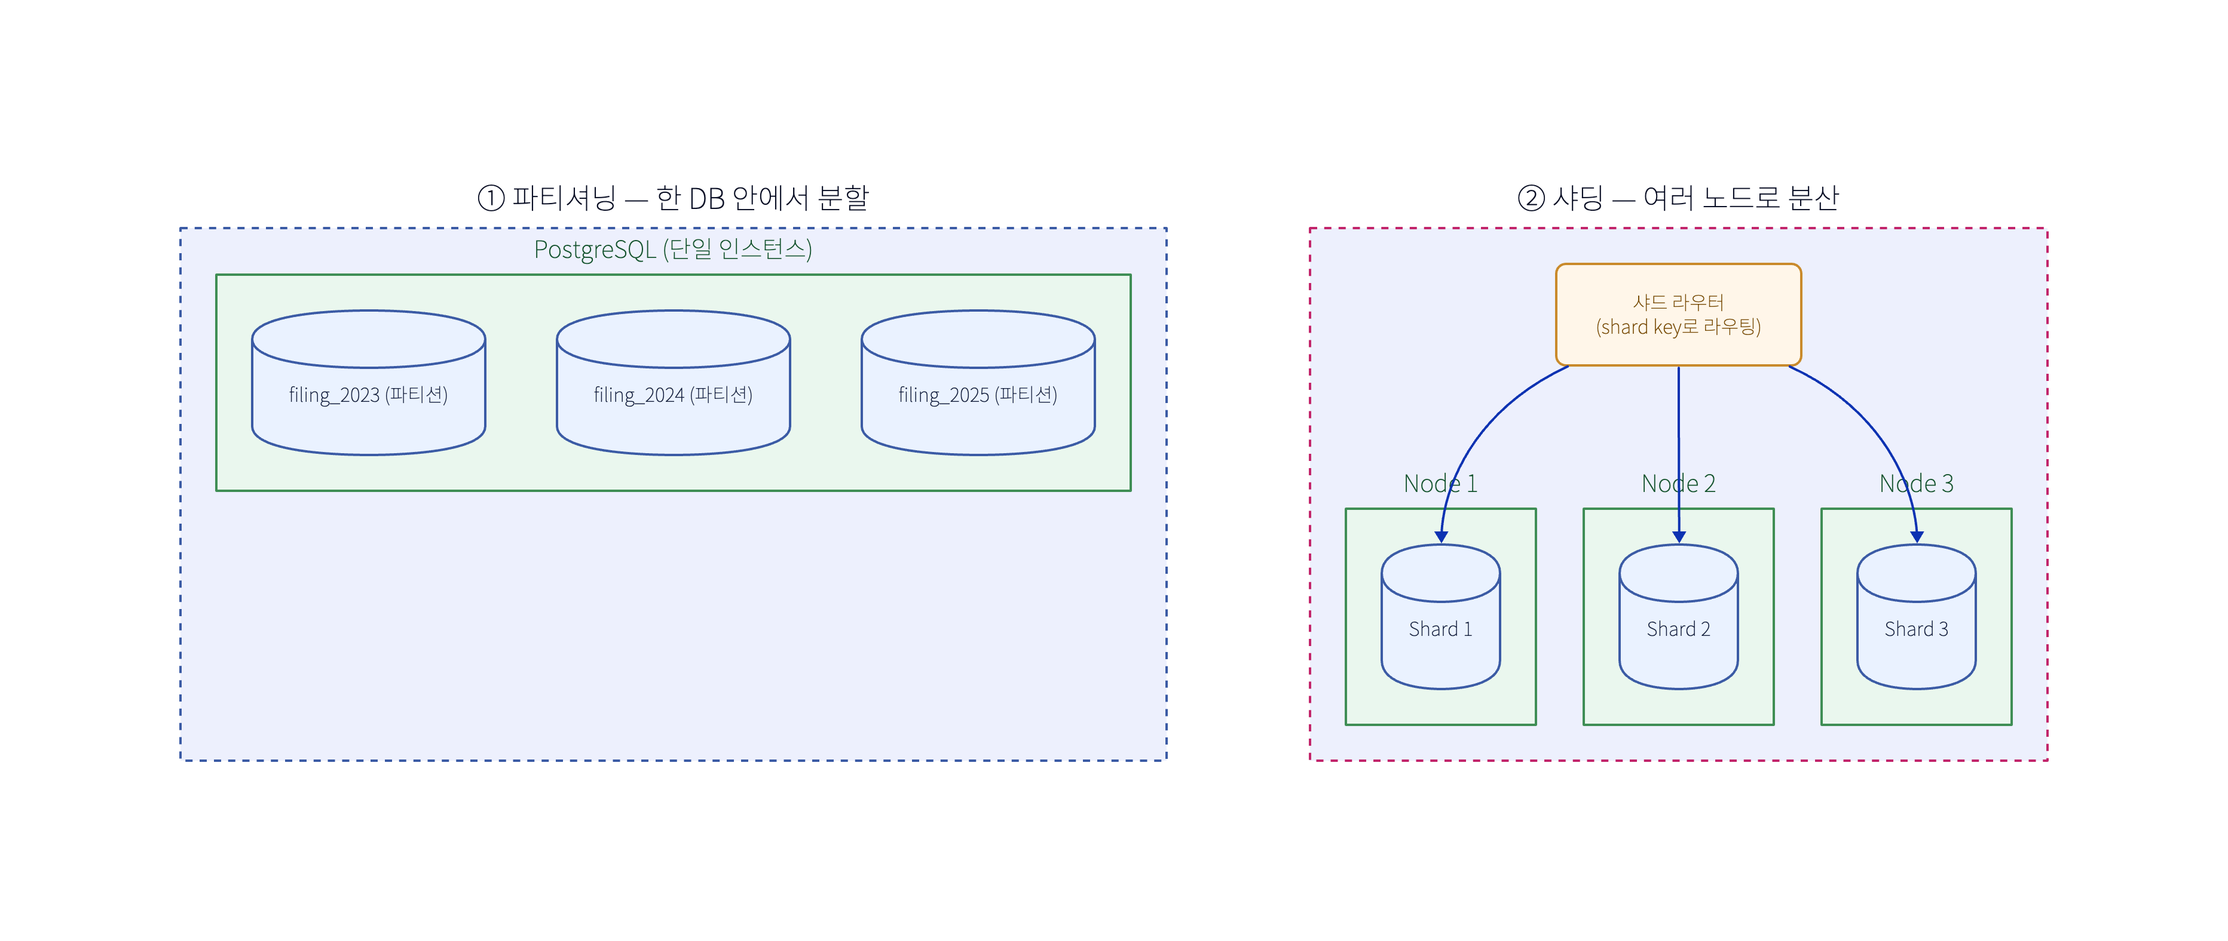
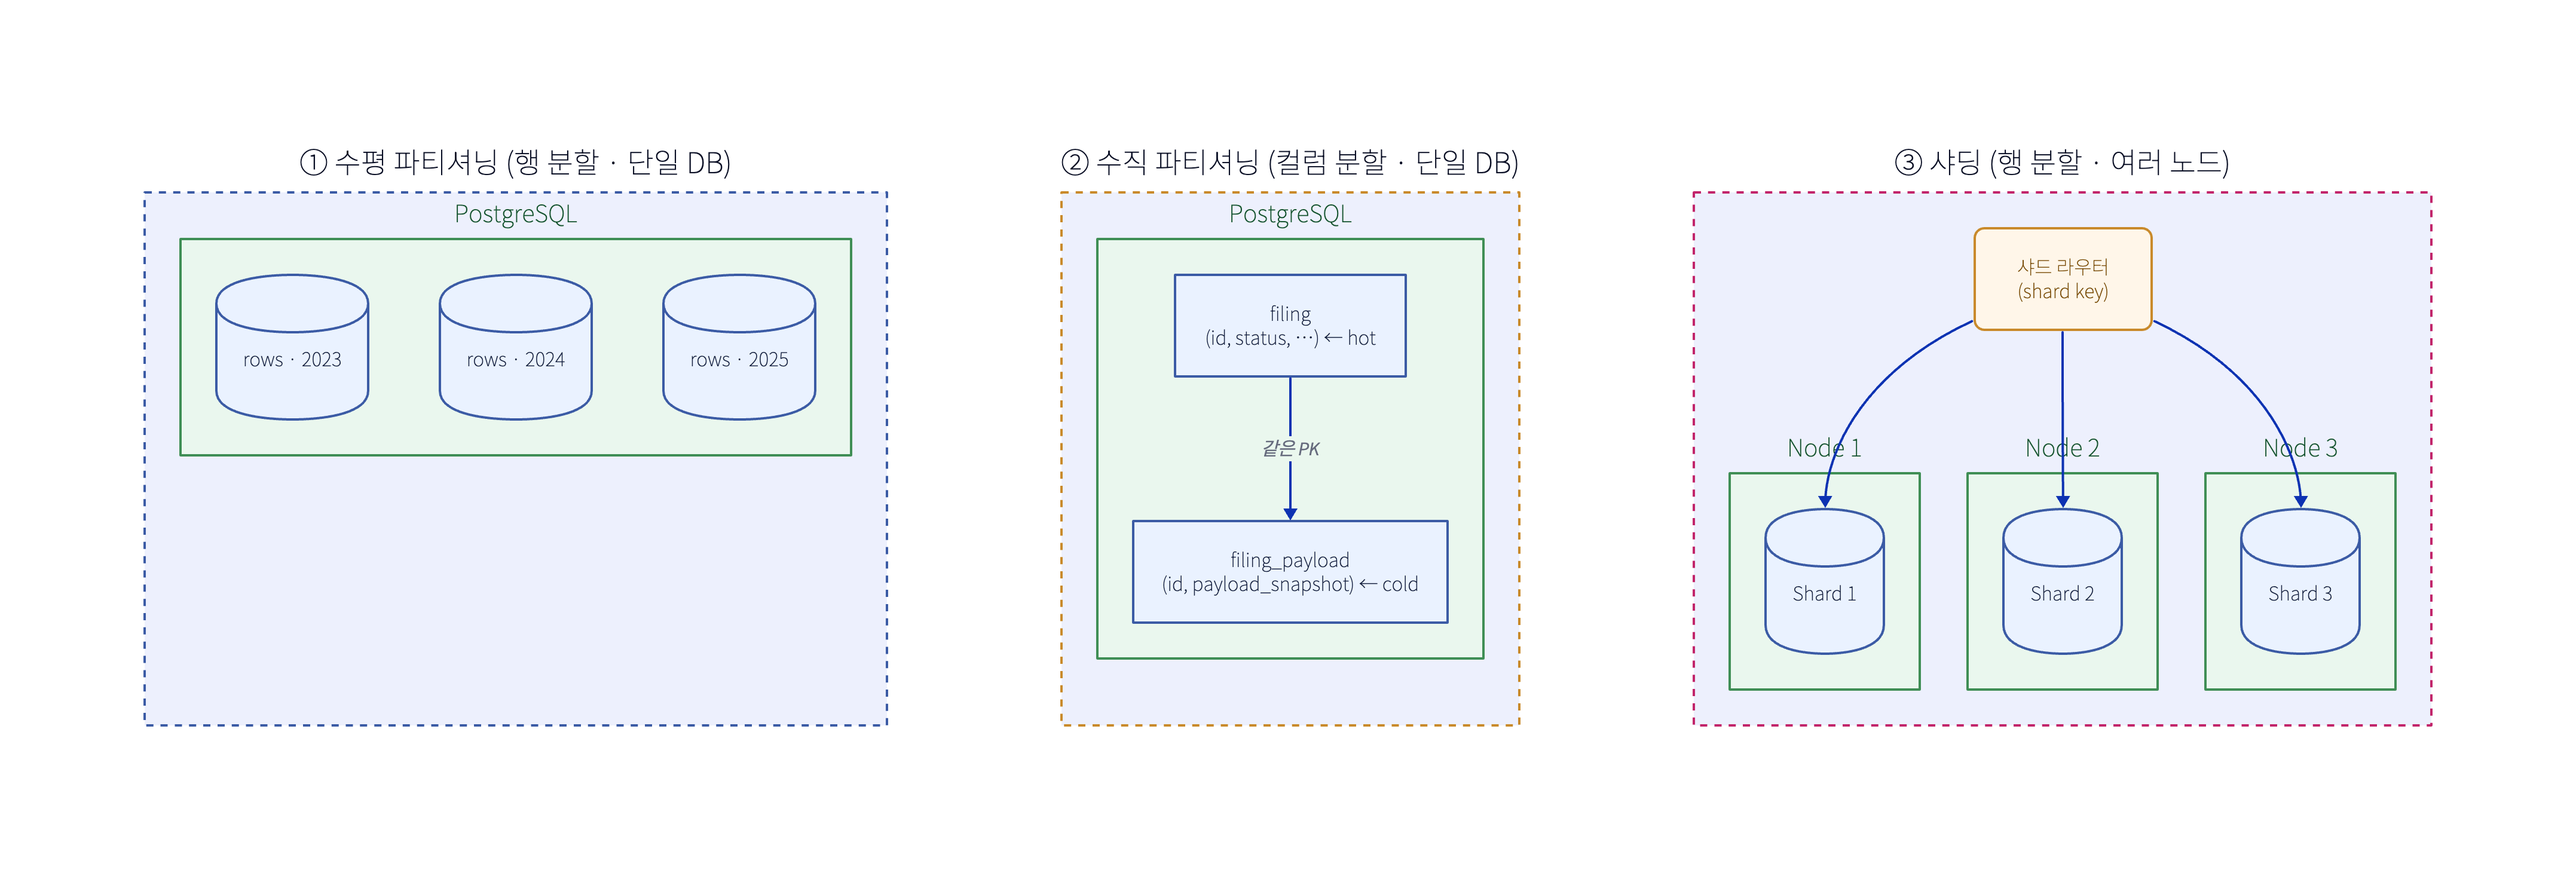
docs: 샤딩/파티셔닝 그림 3분할(수평·수직·샤딩)로 갱신 + 본문 압축
수직 파티셔닝(hot/cold 같은 PK) 패널 추가해 표와 일치. 샤딩 난점·언제 섹션 요약.

diff --git a/cs-study/260618-샤딩-파티셔닝.md b/cs-study/260618-샤딩-파티셔닝.md
@@ -23,16 +23,14 @@
 - **복제(replication)** = 데이터를 **복사** → HA·읽기 확장.
 - 보통 **같이** 씀: 각 샤드를 다시 복제(leader/replica). (Kafka도 partition을 broker에 분산 + 복제)
 
-## 샤딩이 어려운 이유 (도입 전 알아야)
-- **샤드 키 선택**: 잘못 고르면 **핫스팟**(한 샤드에 트래픽 쏠림). 카디널리티·분포 중요.
-- **크로스 샤드 쿼리**: scatter-gather(모든 샤드 조회 후 합치기) → 느림. 조인 제약.
-- **분산 트랜잭션**: 2PC는 느리고 취약 → 보통 **사가**로 회피.
-- **리샤딩/리밸런싱**: 샤드 추가 시 데이터 재분배(consistent hashing 등으로 완화).
+## 샤딩이 어려운 이유 (= 최후 수단인 이유)
+- **샤드 키**: 잘못 고르면 **핫스팟**(쏠림).
+- **크로스 샤드 쿼리**: scatter-gather → 느림·조인 제약.
+- **분산 트랜잭션**: 2PC 회피 → **사가**.
+- **리샤딩**: 샤드 추가 시 재분배(consistent hashing으로 완화).
 
 ## 언제 무엇을
-1. 테이블이 커서 관리/성능 이슈지만 **한 머신으로 충분** → **파티셔닝** 먼저.
-2. 읽기가 많다 → **읽기 복제본 + 캐시**.
-3. 그래도 **단일 머신 쓰기/용량이 한계** → 그때 **샤딩**(복잡도 크니 최후 수단).
+**파티셔닝(관리/성능) → 읽기 복제본+캐시(읽기 확장) → 그래도 단일 머신 쓰기/용량 한계면 샤딩**(복잡도 큼, 최후 수단).
 
 ## 다른 맥락의 "partition" (용어 혼동 주의)
 - **Kafka partition**: 토픽을 쪼갠 단위(브로커 분산) — 사실상 토픽의 샤딩·파티셔닝. (→ [Kafka 구조](./260617-kafka-구조.md))
